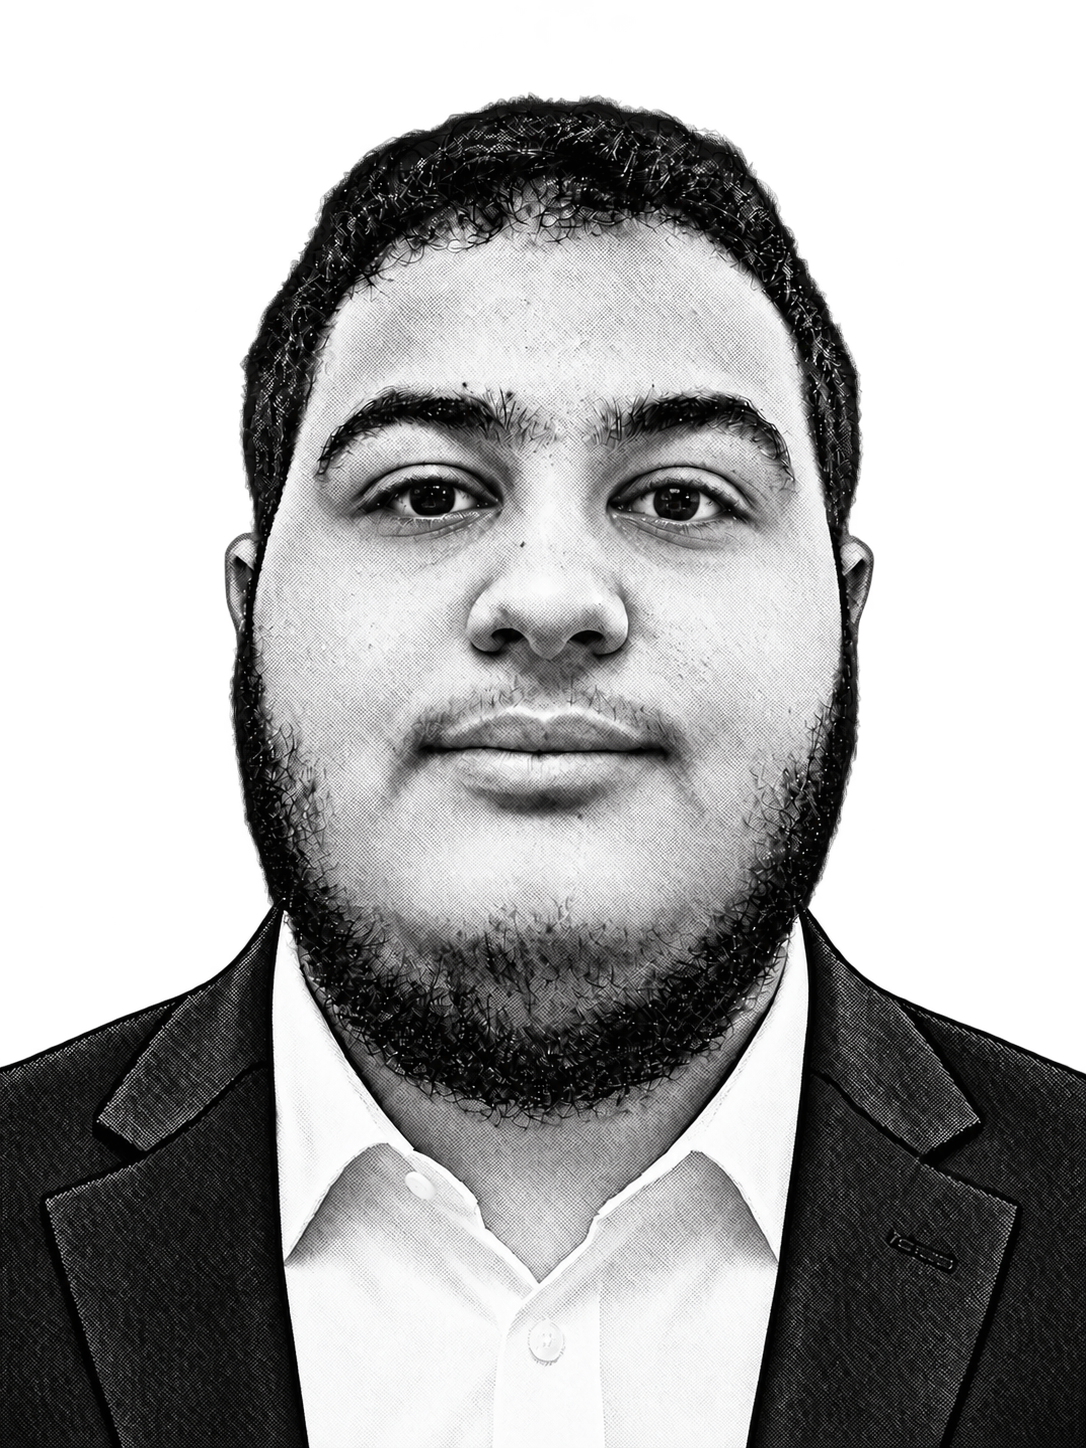
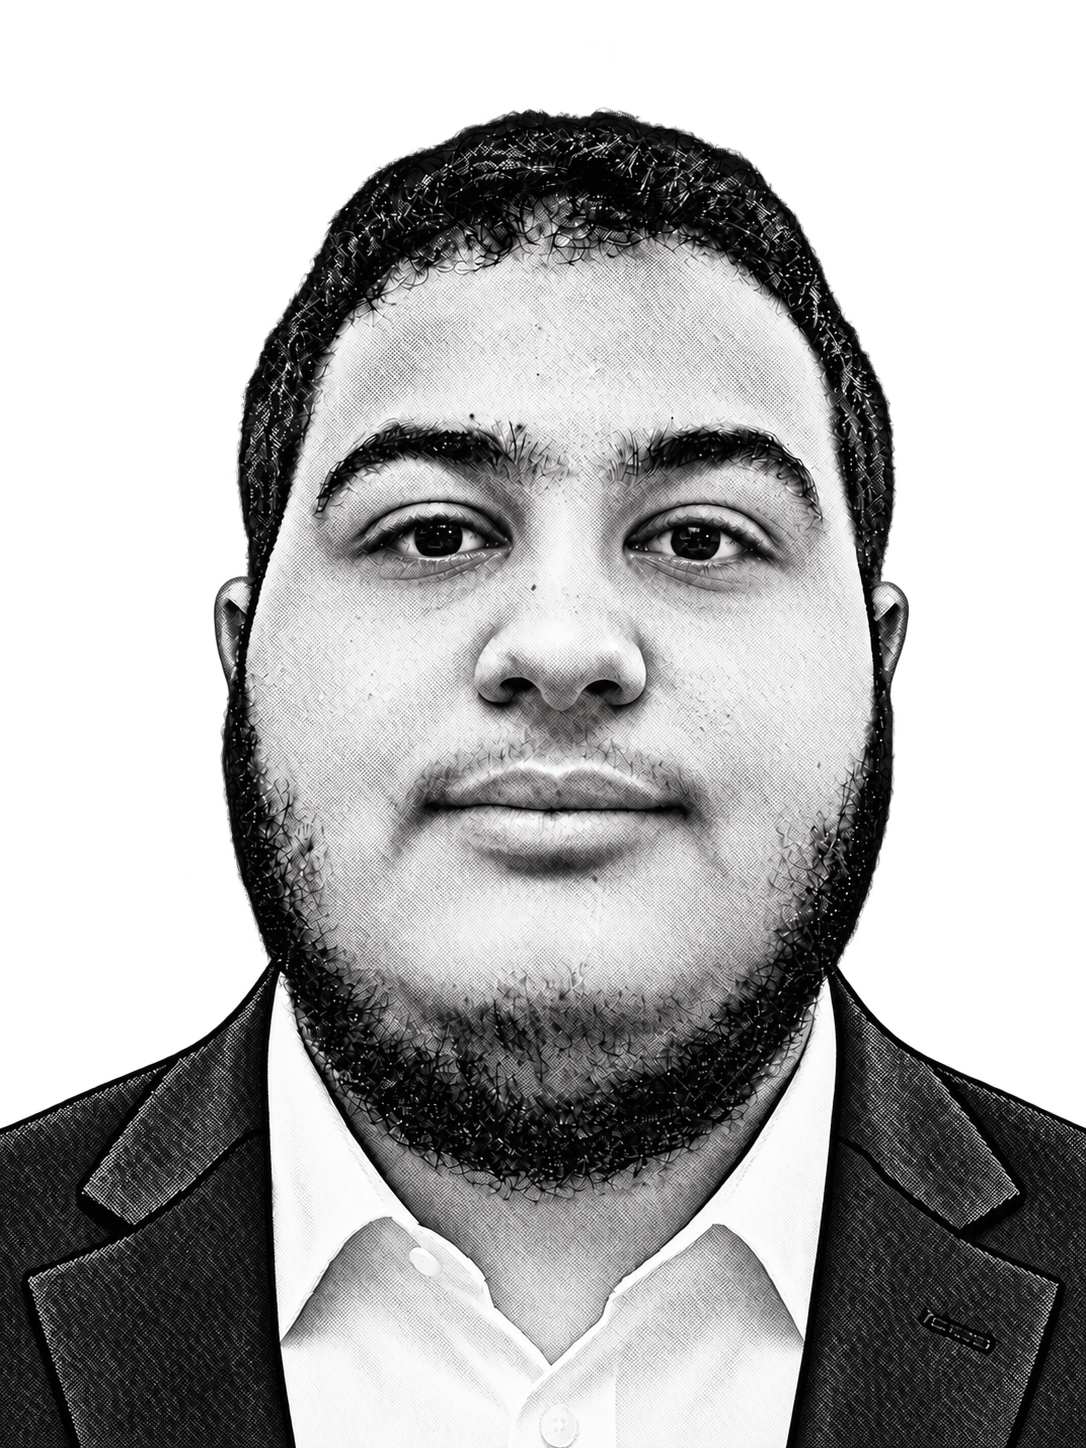
Balance portrait eye opening using photo references

diff --git a/index.html b/index.html
@@ -87,7 +87,7 @@
         </div>
         <figure class="portrait">
           <img
-            src="assets/profile-halftone-smile.png"
+                        src="assets/profile-halftone-smile.png?v=2"
             width="1086"
             height="1448"
             alt="Portrait d’Adam Giuglardo"

diff --git a/src/index.html b/src/index.html
@@ -86,7 +86,7 @@
         </div>
         <figure class="portrait">
           <img
-            src="assets/profile-halftone-smile.png"
+                        src="assets/profile-halftone-smile.png?v=2"
             width="1086"
             height="1448"
             alt="Portrait d’Adam Giuglardo"
